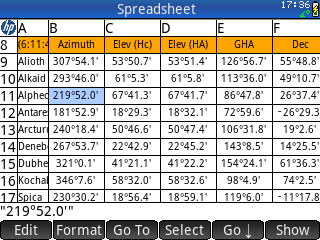
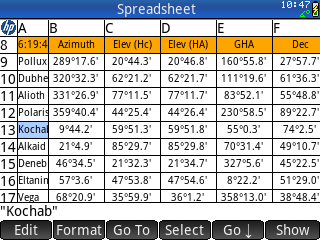
Added clockwise Az sorting of SIGHT_PLANNING output

diff --git a/README.md b/README.md
@@ -137,11 +137,11 @@ It can be helpful to know which celestial bodies will be visible and where ahead
    * **Azimuth from**: the true heading in degrees of the beginning of a clockwise arc within which the azimuth of bodies must lie in order to be included in the list
    * **Clockwise to**: the true heading in degrees of the end of a clockwise arc within which the azimuth of bodies must lie in order to be included in the list
 
-3. It will take about 1-2 minutes to compute all the ephemerides. You will be prompted to press a key to show the results at the end of the calculation. The output will be shown in the Spreadsheet app with all times in local time (assuming **SET_TIME** was run to specify the time zone). It will include:
+3. It will take about 1-2 minutes to compute all the ephemerides. You will be prompted to press a key to show the results at the end of the calculation. The output will be shown in the Spreadsheet app with all times in local time (assuming **SET_TIME** was run to specify the time zone). It will include, in clockwise order of azimuth within the prescribed arc:
 * Sunrise, sunset, civil twilight, and nautical twilight times
 * List of observable bodies (i.e. meeting azimuth and altitude constraints entered on the first screen) with, for each, the azimuth, true altitude (Hc), apparent altitude (Ha) (i.e. the one that a sextant with no index error and no dip would read), Greenwhich Hour Angle (GHA), declination (dec), and the semi-diameter in arc seconds of the body (if applicable), at 3 different times:
-  * Morning nautical twilight: from morning Nautical Twilight Time to Civil Twilight Time, with body positions calculated at the midpoint of the period
-  * Evening nautical twilight: from evening Civil Twilight Time to Nautical Twilight Time, with body positions calculated at the midpoint of the period
+  * Morning nautical twilight: from morning Nautical Twilight Time to Civil Twilight Time, with body positions calculated at the midpoint of the period, shown in parentheses
+  * Evening nautical twilight: from evening Civil Twilight Time to Nautical Twilight Time, with body positions calculated at the midpoint of the period, shown in parentheses
   * Time specified
  
 ![List of bodies](https://github.com/placidanomaly/HPPrimeSightReduction/blob/main/img/listbodies_output.png) ![List of bodies](https://github.com/placidanomaly/HPPrimeSightReduction/blob/main/img/listbodies_output2.png)
